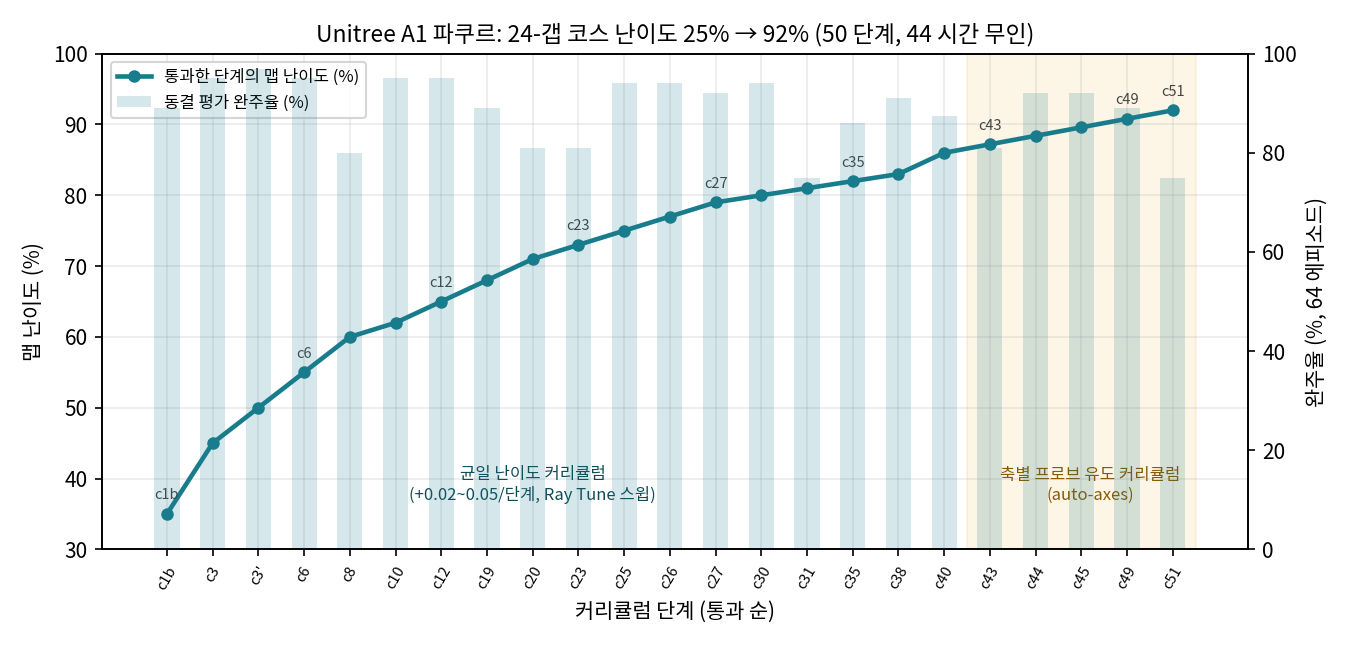
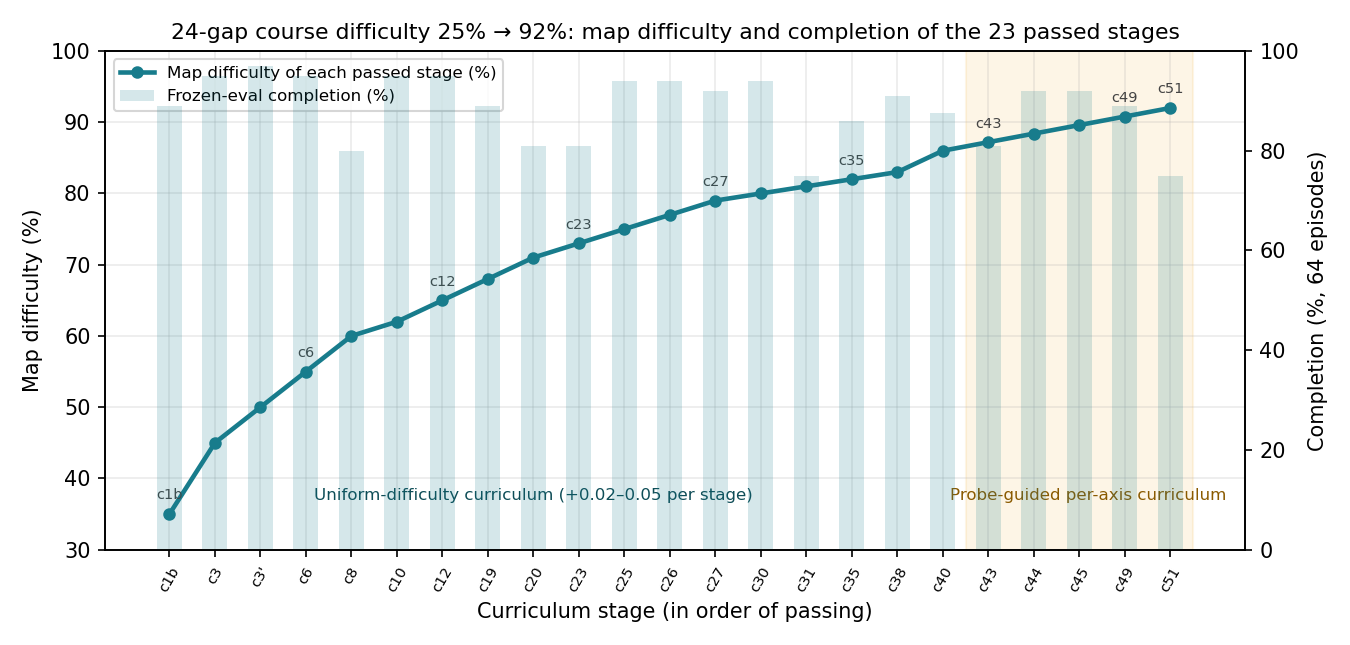
README: rewrite in plain prose; add training-history figures (English)

diff --git a/README.md b/README.md
@@ -1,73 +1,107 @@
 <h1 align="center">rlflow-parkour</h1>
-<p align="center"><b>Unitree A1 사족보행 로봇이 24개의 떨어진 발판을 연속 점프로 건너는 파쿠르 코스를, 강화학습 커리큘럼 50단계를 무인 자동화하여 난이도 25% → 92%까지 끌어올린 연구</b><br>
-Isaac Sim 4.5 · Isaac Lab 2.1.1 · PPO (rsl_rl) · Ray Tune · <a href="https://github.com/sxngt/rl-flow">RLflow</a> MLOps</p>
+<p align="center"><b>Unitree A1 사족보행 로봇이 떨어진 발판 24개를 연속 점프로 건너는 파쿠르 코스.<br>강화학습 커리큘럼으로 코스 난이도를 25%에서 92%까지 올렸다.</b><br>
+Isaac Sim 4.5 · Isaac Lab 2.1.1 · PPO (rsl_rl) · Ray Tune · <a href="https://github.com/sxngt/rl-flow">RLflow</a></p>
 
-<p align="center"><img src="docs/media/hero.gif" width="720" alt="24-gap parkour course, showcase A: 89% completion"></p>
-<p align="center"><sub>쇼케이스 A — 갭 89% · 회전 92% · 경사 86% · 높이 92% · 크기 95% 난이도, 64 에피소드 중 57회 완주(89%). 빨간 점은 표면 위 4단계 착지 계획(큰 점 = 다음 착지 예측).</sub></p>
+<p align="center"><img src="docs/media/hero.gif" width="720" alt="24-gap parkour course, showcase A"></p>
+<p align="center"><sub>쇼케이스 A. 갭 89% · 회전 92% · 경사 86% · 높이 92% · 크기 95% 난이도의 맵을 64회 중 57회 완주했다. 빨간 점은 표면 위에 그린 4단계 착지 계획이고, 큰 점이 다음 착지 예측이다.</sub></p>
 
-**TL;DR (EN)** — A quadruped (Unitree A1) learns to traverse a 24-gap discontinuous parkour course (gaps up to 0.70 m, rises ±0.27 m, turns to 50°, tilted pads to 22°) in Isaac Sim. A curriculum of 50 stages / 51 Ray Tune sweeps ran **unattended for 44 hours** through RLflow, lifting course difficulty from 25% to 92% (per-axis) with an **89% completion rate** at the final showcase map. Along the way we root-caused every training collapse to a learning-rate restart on policy fork and replaced uniform difficulty steps with probe-guided per-axis steps.
+**TL;DR (EN)** — A Unitree A1 quadruped learns to cross a 24-gap discontinuous parkour course in Isaac Sim (gaps up to 0.70 m, rises to ±0.27 m, turns to 50°, pads tilted to 22°). Fifty curriculum stages with Ray Tune sweeps raised course difficulty from 25% to 92% per axis; the final showcase policy completes its map 89% of the time. Two findings shaped the run: every training collapse traced back to a learning-rate restart at policy fork, and uniform difficulty steps had to give way to probe-guided per-axis steps.
 
 ---
 
-## 결과 한눈에
+## 결과
 
 | | 맵 난이도 (gap / turn / tilt / height / size) | 완주 (64 ep) | 정책 |
 |---|---|---|---|
 | **쇼케이스 A** | .89 / .92 / .86 / .92 / .95 | **57 / 64 (89%)** | `parkour/v51` |
 | 쇼케이스 B | .89 / .92 / .86 / .95 / .98 | 48 / 64 (75%) | trial `e3c085b6` |
 | 쇼케이스 C | 균일 .86 | 56 / 64 (88%) | `parkour/v45` |
-| 시작점 | 균일 .25 | 57 / 64 (89%) | `parkour/v5` |
+| 출발점 | 균일 .25 | 57 / 64 (89%) | `parkour/v5` |
+
+코스는 `mixed_discrete` 24갭, geometry seed 1이다. 난이도는 갭 길이·회전각·발판 경사·높이차·발판 크기 다섯 축을 0~1 분율로 나눠 조절한다. 평가는 동결 정책, 결정론, 64 에피소드로 하고, 마지막 발판에 네 발이 올라가 0.2초 버티면 성공이다. 몸통이 발판에 닿으면 그 자리에서 실패.
+
+100% 맵은 아직 못 건넌다. 지금 최고 정책도 네 번째 이동에서 떨어진다. 이 문서의 숫자는 거기까지다.
+
+## 어떻게 올라왔나
 
 <p align="center"><img src="docs/media/curriculum.png" width="820" alt="curriculum progression"></p>
 
-- 코스: `mixed_discrete` 24갭, geometry seed 1. 난이도 축 5개(갭 길이 · 회전각 · 발판 경사 · 높이차 · 발판 크기)를 0~1 분율로 스케일.
-- 평가: 동결 정책 · 결정론 · 64 에피소드, 성공 = 마지막 발판에 4발 안착 후 0.2 s 유지. 몸통이 발판에 닿으면 즉시 실패.
-- 100% 맵은 미완주(최고 정책이 4번째 이동에서 실패). 여기까지가 정직한 도달점이다.
+한 단계의 흐름은 단순하다. 이전 단계에서 가장 잘한 체크포인트를 fork해 조금 더 어려운 맵에서 1200 iteration을 학습하고, 동결 평가로 75% 이상 완주하면 그 정책이 다음 단계의 부모가 된다. 미달이면 같은 맵에서 이어 학습하고, 성공률이 0에 가까우면 한 단계 전으로 돌아간다. 앞쪽 18단계는 다섯 축을 같은 비율로 올리는 균일 커리큘럼이었고, 86% 이후로는 축을 따로 올리는 방식으로 바꿨다. 그 이유는 아래에서 다룬다.
 
-## 왜 어려운가, 무엇을 알아냈나
+<p align="center"><img src="docs/media/stage-outcomes.png" width="820" alt="stage outcomes"></p>
 
-<p align="center"><img src="docs/media/cliff-vs-pass.gif" width="720" alt="left: uniform 0.89 map fails at gap 13; right: showcase A passes"></p>
-<p align="center"><sub>왼쪽: 같은 정책이 균일 0.89 맵에서는 13번째 갭(0.70 m + 0.18 m 상승)에서 몸통이 착지면에 걸려 64/64 실패. 오른쪽: 축별로 조정한 맵에서는 89% 완주.</sub></p>
+전체 단계를 난이도–완주율 평면에 놓으면 세 부류로 나뉜다. 통과, 미달 후 이어 학습, 그리고 붕괴. 붕괴 네 건은 0.74, 0.81, 0.83, 0.89에서 나왔고 당시에는 지형의 절벽으로 보였다.
 
-1. **"절벽"의 진짜 원인은 지형이 아니라 fork 학습률이었다.** 부모 정책은 adaptive KL 스케줄로 LR이 1e-5까지 내려가 있는데, 자식은 설정값 2e-4로 새 Adam을 시작했다. 첫 PPO 업데이트가 성숙한 정책을 무너뜨려 매 단계 수 M 스텝을 재학습에 쓰고, 4번은 아예 회복하지 못했다. A/B(1024 env, 40 iter): LR 2e-4 → 12 iter 만에 이동 수 3 → 0.1, LR 1.5e-5 → 7 → 13. 해결: `+fork_lr=inherit`.
-2. **균일 난이도 스텝은 5축을 한꺼번에 흔든다.** 86% 정책을 축 하나만 0.89로 올리면 41~58/64인데, 5축 모두 0.89면 0/64. 그래서 30초 동결 프로브로 축별 허용 폭을 재고, 견디는 조합만 다음 맵으로 삼는 **프로브 유도 축별 커리큘럼**을 만들었다(단계당 프로브 약 2분, 4 GPU 병렬).
-3. **탐색 노이즈는 낮아야 한다.** 86% 이후 `min_std` 0.04가 0.06/0.08을 매 단계 이겼다(EMA 0.72 vs 0.46 vs 0.12).
-4. **혼합 지형 학습은 망각을 막지만 최전선을 밀지 못한다.** env별로 다른 난이도 맵을 섞어 학습(`terrain_mix`)하면 쉬운 맵 성능은 유지되지만, 정책이 못 하는 난이도에서는 학습 신호가 생기지 않았다.
+<p align="center"><img src="docs/media/training-curves.png" width="820" alt="training curves per stage"></p>
+
+단계별 학습 곡선이다. 난이도가 올라가도 같은 예산(2048 env × 1200 iteration, 약 5.9 × 10⁷ 스텝) 안에서 수렴한다. 학습 중 EMA는 탐색 노이즈를 섞은 rollout 기준이라 동결 평가보다 낮게 나오고, 노이즈 하한이 0.12였던 71~79% 단계가 특히 그렇다. 초반 몇 M 스텝 동안 EMA가 0에 머무는 구간이 모든 곡선에 있는데, 이 구간이 fork 문제의 흔적이다.
+
+## 알아낸 것
+
+### 붕괴의 원인은 지형이 아니라 fork 학습률이었다
+
+<p align="center"><img src="docs/media/fork-lr.png" width="640" alt="fork learning-rate A/B"></p>
+
+부모 정책은 rsl_rl의 adaptive KL 스케줄을 거치며 학습률이 1e-5 근처까지 내려간 상태로 저장된다. 자식은 설정 파일의 2e-4로 새 Adam 옵티마이저를 시작했다. 첫 PPO 업데이트가 사실상 부호 하강이 되어 성숙한 정책을 흔들고, 첫 rollout에서는 멀쩡하던 로봇이 다섯 번째 iteration부터 매번 수백 대씩 넘어진다. 회복에 수 M 스텝이 들고, 네 번은 끝까지 회복하지 못했다.
+
+같은 86% 정책을 0.89 맵으로 fork한 A/B(1024 env, 40 iteration)에서 LR 2e-4는 열두 iteration 만에 평균 이동 수가 3에서 0.1로 떨어졌고, 1.5e-5는 7에서 13까지 올라갔다. 이후 모든 fork는 `+fork_lr=inherit`로 부모의 마지막 학습률을 물려받는다.
+
+### 다섯 축을 한꺼번에 올리면 절벽이 생긴다
+
+<p align="center"><img src="docs/media/cliff-vs-pass.gif" width="720" alt="uniform 0.89 fails, per-axis map passes"></p>
+<p align="center"><img src="docs/media/probe-matrix.png" width="640" alt="per-axis probe matrix"></p>
+
+86% 정책을 균일 0.89 맵에 올리면 64번 모두 13번째 갭(0.70 m 폭, 0.18 m 상승)에서 몸통이 착지면에 걸린다. 그런데 축을 하나만 0.89로 올리면 41~58번을 건넌다. 균일 스텝 하나가 다섯 개의 교란을 동시에 주고 있었던 셈이다.
+
+여기서부터 단계 사이에 동결 프로브를 넣었다. 현재 정책을 축별로 +0.06, +0.03 올린 맵에서 30초짜리 결정론 평가를 돌리고, 견디는 축들의 조합을 다시 프로브한 뒤 그 조합을 다음 맵으로 삼는다. 위 행렬이 86% 정책의 프로브 결과다. 높이차와 발판 크기는 여유가 있고, 갭 길이는 0.89와 0.93 사이에 벽이 있으며, 경사는 0.89도 빠듯하다.
+
+<p align="center"><img src="docs/media/axis-frontier.png" width="720" alt="per-axis frontier"></p>
+
+축별로 가니 최전선이 축마다 다른 속도로 움직인다. 높이차와 크기가 먼저 0.95, 0.98에 닿았고 회전이 뒤따랐다. 경사는 0.86에 머물렀고 갭 길이는 0.89에서 멈췄다. 남은 두 축이 이 연구의 다음 과제다.
+
+### 탐색 노이즈는 낮을수록 좋았다
+
+<p align="center"><img src="docs/media/std-sweep.png" width="640" alt="exploration std sweep"></p>
+
+정책 출력에 더하는 가우시안 노이즈 하한을 0.04, 0.06, 0.08로 나눠 같은 부모에서 학습시켰다. 86% 맵에서 EMA는 각각 0.72, 0.46, 0.12. 이후 단계에서도 0.04가 매번 이겼다. 성숙한 정책을 다듬는 단계에서는 실수를 만들어내는 노이즈보다 정확한 rollout이 더 중요했다.
+
+### 혼합 지형은 망각을 막지만 최전선을 밀지는 못했다
+
+env마다 다른 난이도의 맵을 배정해 한 번에 학습하는 `terrain_mix`도 시도했다. 쉬운 맵의 성능은 유지되지만, 정책이 아직 못 하는 난이도에서는 성공 신호 자체가 생기지 않아 최전선은 그대로였다. 커리큘럼을 대체하지는 못했고, 보조 수단으로 남겨 두었다.
+
+## 착지 계획 시각화
 
 <p align="center"><img src="docs/media/footfall-plan.gif" width="560" alt="4-step footfall plan overlay"></p>
-<p align="center"><sub>착지 계획 오버레이: 큰 점 = 몸통 운동 외삽 + 기본 보폭으로 예측한 다음 착지점, 작은 점 = 이후 3단계 계획기 목표. 모두 표면 위에 그려진다 (`src/parkour/predicted_footfall.py`).</sub></p>
 
-## 방법
+정책은 105차원 관측을 받아 관절 목표 12개를 내는 MLP라서 발걸음 계획을 따로 출력하지 않는다. 그래서 영상에는 추정치를 그린다. 큰 점은 몸통의 현재 속도로 다음 발판 도달 시간을 어림잡고 기본 보폭을 더해 표면 평면에 붙인 다음 착지 예측이고, 작은 점 세 단계는 계획기가 표면마다 정해 둔 페어 목표다. 발이 발판에 안착하면 계획이 한 칸 앞으로 밀린다. 표시용일 뿐 보상이나 판정에는 쓰지 않는다 (`src/parkour/predicted_footfall.py`).
+
+## 방법 요약
 
 ```
-[맵 생성] curriculum_maps.build_mixed_discrete_axes(seed, {gap, turn, tilt, height, size})
-    │
-[학습] PPO (rsl_rl, 105-dim obs → 12 joint targets), 2048 env, 1200 iter ≈ 30 분/GPU
-    │   fork: 이전 단계 최고 체크포인트 + fork_lr=inherit + min_std 0.04
-[스윕] Ray Tune (RLflow lab-pipeline sweep) — std / LR 배수 / 후보 맵
-    │
-[평가] 동결 정책 64 ep → 게이트(native ≥ 0.75) → MLflow 레지스트리 candidate → validated
-    │
-[다음 맵] 30 s 동결 프로브 × (축별 +0.06, +0.03) × 조합 → auto-axes / auto-multi 드라이버
+[맵]    curriculum_maps.build_mixed_discrete_axes(seed, {gap, turn, tilt, height, size})
+[학습]  PPO (rsl_rl), 105-dim obs → 12 joint targets, 2048 env × 1200 iter
+        fork = 이전 단계 최고 체크포인트 + fork_lr=inherit + min_std 0.04
+[스윕]  Ray Tune — 탐색 std, 학습률 배수, 후보 맵
+[평가]  동결 정책 64 ep → 게이트 native ≥ 0.75 → MLflow 레지스트리 candidate → validated
+[다음]  동결 프로브 (축별 +0.06 / +0.03, 조합) → 다음 맵 선택
 ```
 
-- 정책·평가·촬영 코드: `src/parkour/` (`continuous_tracker_task.py`, `policy_fork.py`, `terrain_mix.py`, `predicted_footfall.py`, `media.py`)
-- RLflow 진입점: `train.py`, `evaluate.py`, `export.py` (연구 코드를 감싸는 얇은 래퍼), 설정 `configs/*.yaml`, 스윕 `configs/sweep/*.yaml`, 평가 스위트 `eval_suite/*.yaml`
-- 캠페인 드라이버: [`rl-flow/tools/parkour_campaign.py`](https://github.com/sxngt/rl-flow/blob/main/tools/parkour_campaign.py) — `stage` / `auto` / `auto-axes` / `auto-multi`
-- 실행 방법: [docs/rlflow-usage.md](docs/rlflow-usage.md) · 연구 문서 490편: [docs/](docs/) (인계: [active-research.md](docs/active-research.md)) · 이관 이전 README: [docs/legacy-readme.md](docs/legacy-readme.md)
+- 정책·지형·평가·촬영: `src/parkour/` (`continuous_tracker_task.py`, `curriculum_maps.py`, `policy_fork.py`, `terrain_mix.py`, `predicted_footfall.py`, `media.py`)
+- RLflow 진입점: `train.py`, `evaluate.py`, `export.py`. 설정은 `configs/*.yaml`, 스윕은 `configs/sweep/`, 평가 스위트는 `eval_suite/`
+- 커리큘럼 드라이버: [`rl-flow/tools/parkour_campaign.py`](https://github.com/sxngt/rl-flow/blob/main/tools/parkour_campaign.py) — `stage` / `auto` / `auto-axes` / `auto-multi`
+- 실행 방법은 [docs/rlflow-usage.md](docs/rlflow-usage.md), 연구 기록 490편은 [docs/](docs/) (인계 문서 [active-research.md](docs/active-research.md)), 이관 전 README는 [docs/legacy-readme.md](docs/legacy-readme.md)
 
-## 숫자로 보는 캠페인 (2026-09-13 → 09-15)
+## 규모
 
 | 항목 | 값 |
 |---|---|
-| 무인 진행 | 50 단계 · 51 스윕 · 약 150 trial · 44 시간 |
-| 학습 규모 | 단계당 2048 env × 1200 iter ≈ 5.9 × 10⁷ env-step, 총 ≈ 9 × 10⁹ env-step |
-| 도달 난이도 | 균일 .86 통과, 축별 .89 / .92 / .86 / .95 / .98 통과 |
-| 평가 | 모든 단계 64 ep 동결 평가, 정책 55 버전 등록 |
-| 실험 자산 | 콘솔 런 1,456개 (이관 1,378 + 신규 78), 영상 900+ |
+| 커리큘럼 | 50 단계, 51 스윕, 약 150 trial |
+| 학습량 | 단계당 약 5.9 × 10⁷ 환경 스텝, 누적 약 9 × 10⁹ |
+| 평가 | 모든 단계 64 에피소드 동결 평가, 정책 55 버전 등록 |
+| 실험 자산 | 런 1,456개 (이관 1,378 + 신규 78), 영상 900여 개 |
 
-모든 런·지표·영상·계보는 RLflow 콘솔(`/p/parkour`)과 MLflow에 있다. 쇼케이스 세 런은 `purpose:showcase` 태그로 모아 볼 수 있다.
+런·지표·영상·계보는 RLflow 콘솔 `/p/parkour`와 MLflow에 있다. 쇼케이스 세 런은 `purpose:showcase` 태그로 모아 볼 수 있다.
 
 ## 배경
 
-원본 연구(`workspace/parkour`, 351 커밋)는 사전 지도 기반 Planner–RL Tracker 구조로 단일 도약 → 연속 도약 → 혼합 지형으로 단계를 밟아 왔다. 2026-09-13에 RLflow 프로젝트로 이관하면서 실행 1,375개와 영상 900개를 무수정 임포트했고, 이후의 모든 학습·평가는 RLflow를 통해 이루어졌다. 구현은 AI 코딩 에이전트(Claude Code)와 페어로 진행했다.
+원본 연구(`workspace/parkour`, 351 커밋)는 사전 지도 기반 Planner–RL Tracker 구조로 단일 도약, 연속 도약, 혼합 지형 순서로 진행됐다. 2026년 9월 RLflow 프로젝트로 옮기면서 실행 1,375개와 영상 900개를 원본 수정 없이 임포트했고, 그 뒤의 학습과 평가는 모두 RLflow를 거친다. 구현은 AI 코딩 에이전트(Claude Code)와 함께했다.
